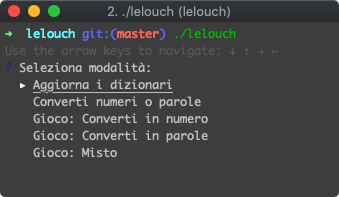
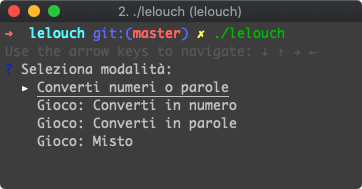
readme

diff --git a/main.go b/main.go
@@ -49,7 +49,7 @@ func main() {
 		err1, completeDictionary = dictionary.GetCompleteDictionary()
 		err2, commonDictionary = dictionary.GetCommonDictionary()
 		if err1 != nil || err2 != nil {
-			log.Fatal("Error to get dictionaries ")
+			log.Fatal("Error to get dictionaries")
 		}
 	}
 
@@ -61,7 +61,7 @@ func start() {
 	for {
 		prompt := promptui.Select{
 			Label: Select,
-			Items: []string{UpdateDictionaries, Converter, GameWordToNumber, GameNumberToWord, GameMix},
+			Items: []string{Converter, GameWordToNumber, GameNumberToWord, GameMix},
 		}
 		_, result, err := prompt.Run()
 		if err != nil {
@@ -70,8 +70,6 @@ func start() {
 		}
 
 		switch result {
-		case UpdateDictionaries:
-			loadingDictionaries()
 		case Converter:
 			convert()
 		case GameWordToNumber:
@@ -107,7 +105,7 @@ func stats() {
 	fmt.Println("Nel dizionario delle parole comuni ci sono", numberOfWords, "parole")
 }
 
-func chooseLevelGame(){
+func chooseLevelGame() {
 	prompt := promptui.Select{
 		Label: "Seleziona il livello",
 		Items: []string{simpleLevel, mediumLevel, extremeLevel},

diff --git a/README.md b/README.md
@@ -54,18 +54,17 @@ POLSO   950
   <img alt="Interfaccia Lelouch" src="https://raw.githubusercontent.com/moorada/lelouch/master/img/menu.png" width="40%" />
 </p>
 
-* La prima funzione crea dei dizionari numerati (ogni parola è associata al numero corrispondente della conversione fonetica) con tutte le parole presenti nei file "parolecomuni.txt" e "tutteleparole.txt" nella cartella "dizionari"
-* "Converti numeri o parole", converte semplicemente numeri/parole in parole/numeri. Es:
+"Converti numeri o parole", converte semplicemente numeri/parole in parole/numeri. Es:
 <p align="center">
   <img alt="Interfaccia Lelouch" src="https://raw.githubusercontent.com/moorada/lelouch/master/img/convertitore.png" width="70%" />
 </p>
 
-* Le modalità "Gioco", interrogano, controllano la risposta e suggeriscono altre soluzioni.
+Le modalità "Gioco", interrogano, controllano la risposta e suggeriscono altre soluzioni.
 <p align="center">
   <img alt="Interfaccia Lelouch" src="https://raw.githubusercontent.com/moorada/lelouch/master/img/convertiParole.png" width="40%" />
 </p>
 
- Inoltre è possibile scegliere il livello
+Inoltre è possibile scegliere il livello
 <p align="center">
   <img alt="Interfaccia Lelouch" src="https://raw.githubusercontent.com/moorada/lelouch/master/img/sceltaLivello.png" width="40%" />
 </p>
